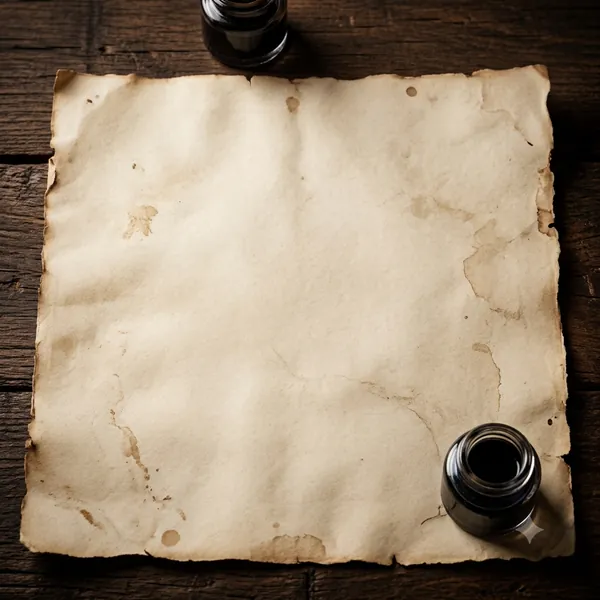
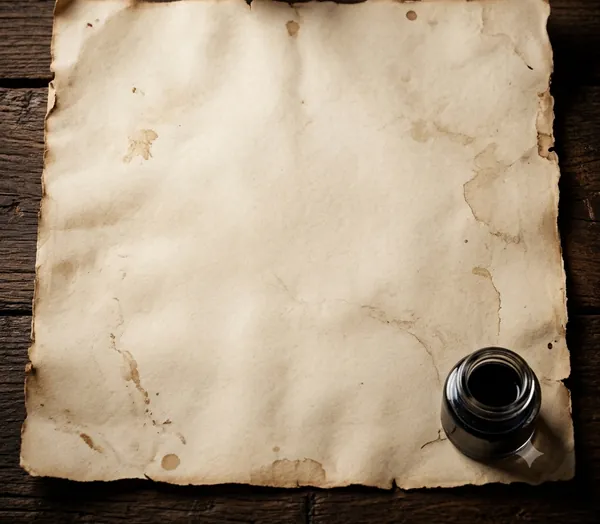
Add files via upload

diff --git a/clock.js b/clock.js
@@ -20,7 +20,7 @@
     var DAYS = ["SUN", "MON", "TUE", "WED", "THU", "FRI", "SAT"];
     var MONTHS = ["JAN", "FEB", "MAR", "APR", "MAY", "JUN", "JUL", "AUG", "SEP", "OCT", "NOV", "DEC"];
 
-    var NOTE_PAPER = new URL("note-paper.webp?v=1", document.baseURI).href;   // 종이 칸 바탕 그림
+    var NOTE_PAPER = new URL("note-paper.webp?v=2", document.baseURI).href;   // 종이 칸 바탕 그림
 
     /* ---------- 스타일 ---------- */
     var style = document.createElement("style");
@@ -43,6 +43,8 @@
         ".dc-quill { position: absolute; left: 0; top: 0; width: 34px; height: 48px; pointer-events: none; opacity: 0;",
         "    transform-origin: 0 100%; filter: drop-shadow(1px 2px 1.5px rgba(0,0,0,.35)); transition: opacity .4s; }",
         ".dc-note-text.dc-fade { transition: opacity .3s; opacity: 0; }",
+        ".dc-dot { opacity: 0; transition: opacity .1s; }",
+        ".dc-dot.on { opacity: 1; }",
         /* 폰: 제목(밑줄) 아래에 시계와 파란 칸을 작게 나란히 (다른 위젯에는 영향 없음) */
         ".dc-mobile { --dc-w: " + MOBILE_CLOCK_WIDTH + "px; --dc-h: calc(var(--dc-w) * " + (VB_H / VB_W) + "); margin: 0 0 20px; position: relative; z-index: 1; }",
         ".dc-mobile .dc-home { position: relative; right: auto; width: 100%; gap: 8px; }",
@@ -199,12 +201,25 @@
             fl.href = "https://fonts.googleapis.com/css2?family=Great+Vibes&display=swap";
             document.head.appendChild(fl);
         }
-        var lines = NOTE_TEXT.split(" ").map(function (w) {      // 한 단어씩 한 줄
+        /* 한 단어씩 한 줄. 끝에 점이 여러 개 있으면(fine...) 점은 따로 하나씩 찍어요 */
+        var lines = NOTE_TEXT.split(" ").map(function (w) {
             var sp = document.createElement("span");
             sp.className = "dc-line";
-            sp.textContent = w;
+            var m = /^(.*?)(\.{2,})$/.exec(w);
+            var word = document.createTextNode(m ? m[1] : w);
+            sp.appendChild(word);
+            var dots = [];
+            if (m) {
+                for (var k = 0; k < m[2].length; k++) {
+                    var dt = document.createElement("span");
+                    dt.className = "dc-dot";
+                    dt.textContent = ".";
+                    sp.appendChild(dt);
+                    dots.push(dt);
+                }
+            }
             noteText.appendChild(sp);
-            return sp;
+            return { el: sp, word: word, dots: dots };
         });
         var quill = document.createElementNS(NS, "svg");
         quill.setAttribute("class", "dc-quill");
@@ -219,32 +234,77 @@
         note.appendChild(quill);
 
         var reduce = window.matchMedia && window.matchMedia("(prefers-reduced-motion: reduce)").matches;
-        if (reduce) { lines.forEach(function (l) { l.style.clipPath = "none"; }); return; }
+        if (reduce) {
+            lines.forEach(function (l) { l.el.style.clipPath = "none"; l.dots.forEach(function (d) { d.classList.add("on"); }); });
+            return;
+        }
 
         var SPEED = 55;                 // 글씨 쓰는 속도 (px/초)
-        function place(line, p, t) {
-            var nr = note.getBoundingClientRect(), lr = line.getBoundingClientRect();
-            var x = lr.left - nr.left + 2 + p * (lr.width - 10);
-            var y = lr.top - nr.top + lr.height * 0.62 + Math.sin(t / 55) * 3.5;
+        var DOT_WAIT = 1000;            // 마지막 글자(fine의 e)를 쓰고 첫 점까지 (ms)
+        var DOT_GAP = 500;              // 점과 점 사이 (ms)
+        var pen = { x: 0, y: 0 };
+        function penAt(x, y, t) {
+            pen.x = x; pen.y = y;
             quill.style.transform = "translate(" + x + "px," + (y - 48) + "px) rotate(" + (Math.sin(t / 90) * 4) + "deg)";
+        }
+        function rel(r) { var nr = note.getBoundingClientRect(); return { left: r.left - nr.left, top: r.top - nr.top, width: r.width, height: r.height }; }
+        // 단어(점 빼고)가 끝나는 위치 (줄 왼쪽 기준 px)
+        function wordEnd(item) {
+            var lr = item.el.getBoundingClientRect();
+            if (!item.dots.length || !document.createRange) return lr.width;
+            var r = document.createRange();
+            r.selectNodeContents(item.word);
+            return r.getBoundingClientRect().right - lr.left + 2;
         }
         function writeLine(i, done) {
             if (i >= lines.length) { done(); return; }
-            var line = lines[i], w = line.getBoundingClientRect().width || 60;
-            var dur = Math.max(500, w / SPEED * 1000), start = null;
+            var item = lines[i], line = item.el;
+            var W = line.getBoundingClientRect().width || 60, end = wordEnd(item);
+            var dur = Math.max(500, end / SPEED * 1000), start = null;
             function frame(t) {
                 if (start === null) start = t;
                 var p = Math.min(1, (t - start) / dur);
-                line.style.clipPath = "inset(0 " + ((1 - p) * 100).toFixed(2) + "% 0 0)";
-                place(line, p, t);
-                if (p < 1) requestAnimationFrame(frame);
-                else setTimeout(function () { writeLine(i + 1, done); }, 260);   // 다음 줄로
+                line.style.clipPath = "inset(0 " + Math.max(0, W - p * end).toFixed(1) + "px 0 0)";
+                var lr = rel(line.getBoundingClientRect());
+                penAt(lr.left + 2 + p * (end - 10), lr.top + lr.height * 0.62 + Math.sin(t / 55) * 3.5, t);
+                if (p < 1) { requestAnimationFrame(frame); return; }
+                if (item.dots.length) {
+                    line.style.clipPath = "none";        // 점은 아직 안 보여요 (투명)
+                    writeDots(item, function () { setTimeout(function () { writeLine(i + 1, done); }, 260); });
+                } else {
+                    setTimeout(function () { writeLine(i + 1, done); }, 260);   // 다음 줄로
+                }
             }
             requestAnimationFrame(frame);
         }
+        // 펜을 점 자리로 살짝 옮겨서 콕 찍어요: e를 쓰고 1초, 1.5초, 2초 뒤에 점이 하나씩 생겨요
+        function writeDots(item, done) {
+            var MOVE = 180;
+            item.dots.forEach(function (dot, k) {
+                var at = DOT_WAIT + k * DOT_GAP;
+                setTimeout(function () {
+                    var dr = rel(dot.getBoundingClientRect()), lr = rel(item.el.getBoundingClientRect());
+                    var fx = pen.x, fy = pen.y, tx = dr.left + dr.width * 0.3, ty = lr.top + lr.height * 0.74, s0 = null;
+                    function glide(t) {
+                        if (s0 === null) s0 = t;
+                        var q = Math.min(1, (t - s0) / MOVE), e = q * (2 - q);
+                        penAt(fx + (tx - fx) * e, fy + (ty - fy) * e - Math.sin(q * Math.PI) * 6, t);
+                        if (q < 1) requestAnimationFrame(glide);
+                        else {
+                            dot.classList.add("on");
+                            if (k === item.dots.length - 1) done();
+                        }
+                    }
+                    requestAnimationFrame(glide);
+                }, Math.max(0, at - MOVE));
+            });
+        }
         function run() {
             noteText.classList.remove("dc-fade");
-            lines.forEach(function (l) { l.style.clipPath = "inset(0 100% 0 0)"; });
+            lines.forEach(function (l) {
+                l.el.style.clipPath = "inset(0 100% 0 0)";
+                l.dots.forEach(function (d) { d.classList.remove("on"); });
+            });
             quill.style.opacity = "1";
             writeLine(0, function () {
                 quill.style.opacity = "0";                     // 다 쓰면 펜이 사라져요

diff --git a/index.html b/index.html
@@ -244,6 +244,6 @@
     <script src="spare.js?v=3"></script>
     <script src="memo.js"></script>
     <script src="memo-cover.js?v=5"></script>
-    <script src="clock.js?v=11"></script>
+    <script src="clock.js?v=12"></script>
 </body>
 </html>
